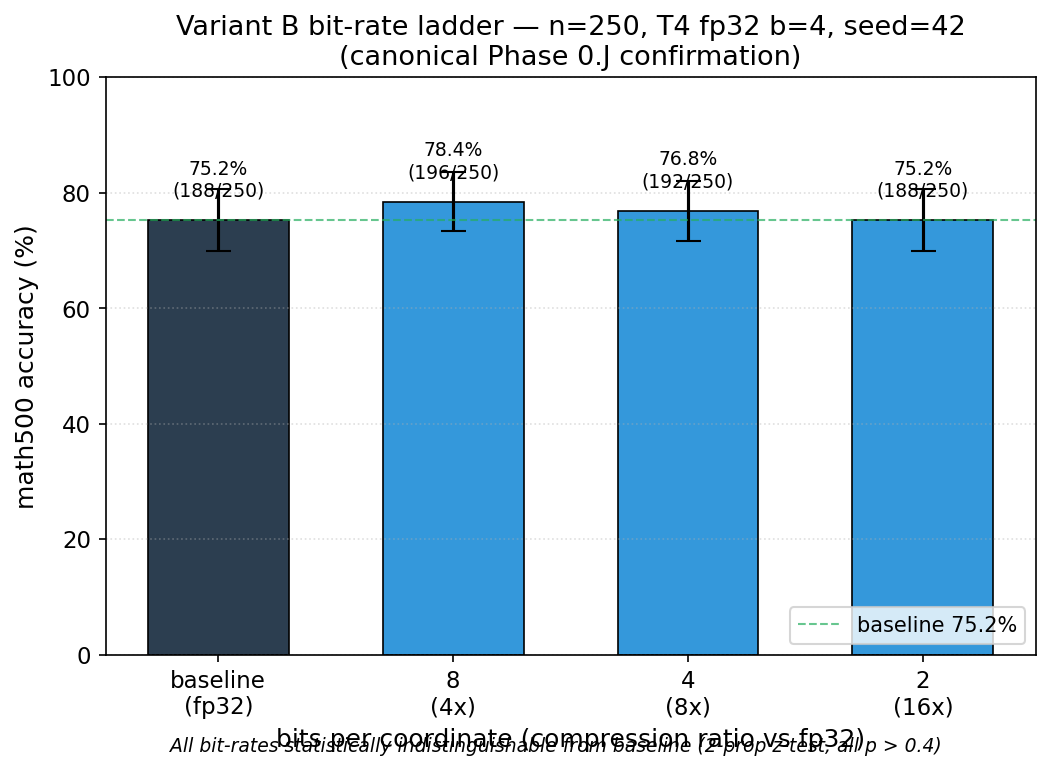
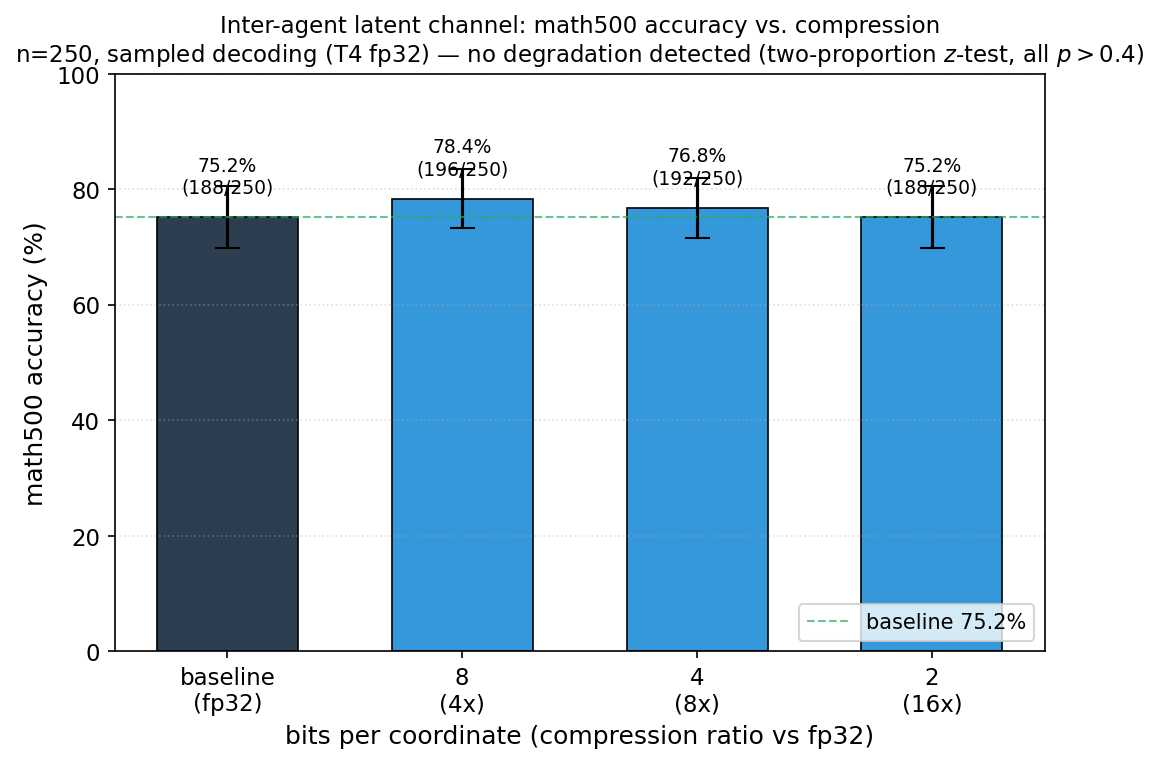
Clean up the headline bit-rate figure (README + paper Fig 1)
Remove the internal "(fallback values)" subtitle and the stale "Variant B" title, and fix a text-overlap bug where the bottom footnote collided with the x-axis label. The honest no-degradation note now lives in the title subtitle. Regenerated the docs/ and writeup/ copies and recompiled main.pdf.

Changed region(s): [[0.0, 0.0, 1.0, 0.9948], [0.8533, 0.9043, 0.9143, 0.9345]]

diff --git a/docs/figures/_generate_figures.py b/docs/figures/_generate_figures.py
@@ -83,8 +83,9 @@ def fig_bit_rate_ladder_n250():
     ax.set_xticklabels(bits)
     ax.set_xlabel("bits per coordinate (compression ratio vs fp32)")
     ax.set_ylabel("math500 accuracy (%)")
-    ax.set_title("Variant B bit-rate ladder — n=250, T4 fp32 b=4, seed=42\n"
-                 f"({subtitle})")
+    ax.set_title("Inter-agent latent channel: math500 accuracy vs. compression\n"
+                 "n=250, sampled decoding (T4 fp32) — no degradation detected "
+                 "(two-proportion $z$-test, all $p>0.4$)", fontsize=11)
     ax.set_ylim(0, 100)
     ax.axhline(75.2, color=COLOR_GOOD, linestyle="--", linewidth=1, alpha=0.7,
                label="baseline 75.2%")
@@ -97,9 +98,6 @@ def fig_bit_rate_ladder_n250():
                 f"{v:.1f}%\n({c}/{n})", ha="center", va="bottom", fontsize=9)
 
     ax.legend(loc="lower right")
-    fig.text(0.5, -0.02,
-             "No sampled accuracy degradation detected at n=250 (2-prop z-test, all p > 0.4)",
-             ha="center", fontsize=9, style="italic")
 
     fig.savefig(OUT / "bit_rate_ladder_n250.png")
     plt.close(fig)